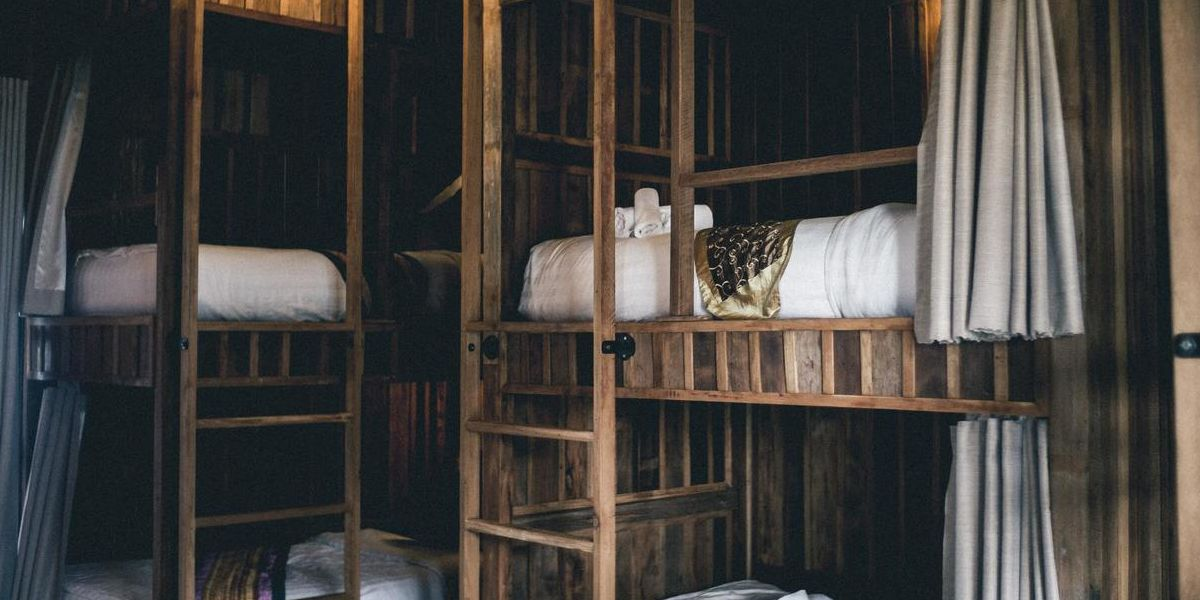
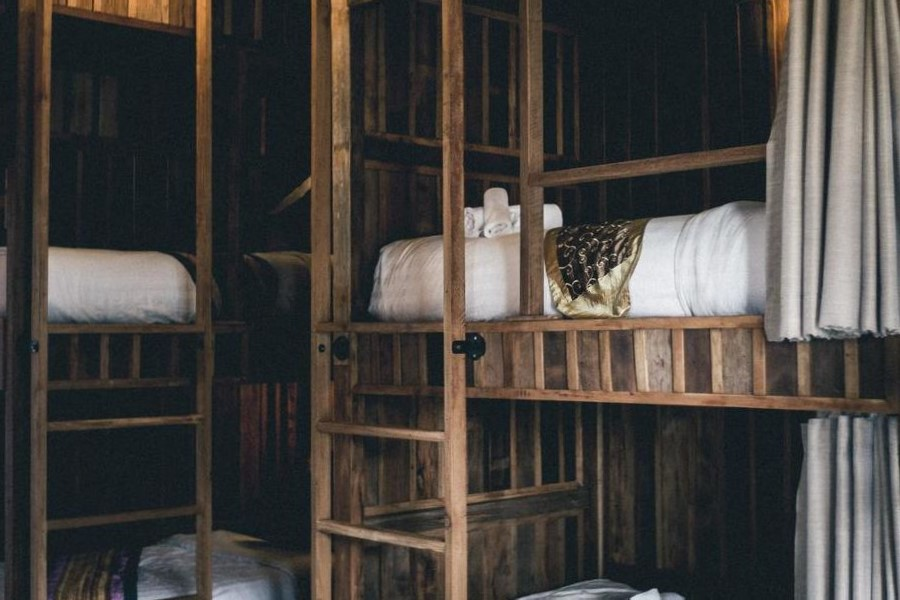
--- Auto-Git Commit ---

diff --git a/style.css b/style.css
@@ -355,7 +355,7 @@ div.image img{
 {
     width: 95%;
     margin:0 auto;
-    margin-top:0.6rem;
+    
     margin-bottom: 0.9rem;
     font-size: 0.875rem;
 }
@@ -374,28 +374,23 @@ div.auberge{
     width: 85%;
     margin:0 auto;
     border:4px white solid;
-    padding-bottom:0rem;
+    
     border:4px white solid;
     border-radius:1.2rem;
     box-shadow: 0 0 5px rgba(0, 0,0,0.3);
     margin-bottom: 0.9rem;
 }   
 div.auberge div.image{
-    aspect-ratio: ;
+    aspect-ratio: 238/125;
+    
 }
 
-div.amina img{
-    top:-240px; 
-}
-       
-div.mer img{
-    top:-100px;
-}
-div.panier img{
-    object-fit: contain;
+
+div.image img{object-fit: cover;}
+
     
-    
-}
+
+
 
 .hebergement-marseille p.afficher{
     width: 76.5%;
@@ -420,7 +415,7 @@ div.hebergement-marseille{
         border-radius: 1rem;
         margin:0;
         padding-top:6rem;
-        position:relative;
+        
     }    
     div.hebergement-marseille p.title{
         position:absolute;

diff --git a/index.html b/index.html
@@ -111,7 +111,7 @@
             <p class='title'>Hébergements à Marseille</p>
             <div class="auberge">
                 <div class="image">
-                    <img src="./images/hebergements/3_medium/marcus-loke-WQJvWU_HZFo-unsplash.jpg" alt="">
+                    <img src="./images/hebergements/1_xlarge/marcus-loke-WQJvWU_HZFo-unsplash.jpg" alt="">
                 </div>
                 <h2>Auberge La Cannebierre</h2>
                 <p>Nuit à partir de 25€</p>
@@ -174,7 +174,7 @@
 
             <div class="auberge">
                 <div class="image panier">
-                    <img src="./images/hebergements/1_xlarge/nicate-lee-kT-ZyaiwBe0-unsplash.jpg" alt="">
+                    <img src="./images/hebergements/3_medium/marcus-loke-WQJvWU_HZFo-unsplash.jpg" alt="">
                 </div>
                 <h2>Auberge La Cannebierre</h2>
                 <p>Nuit à partir de 25€</p>
